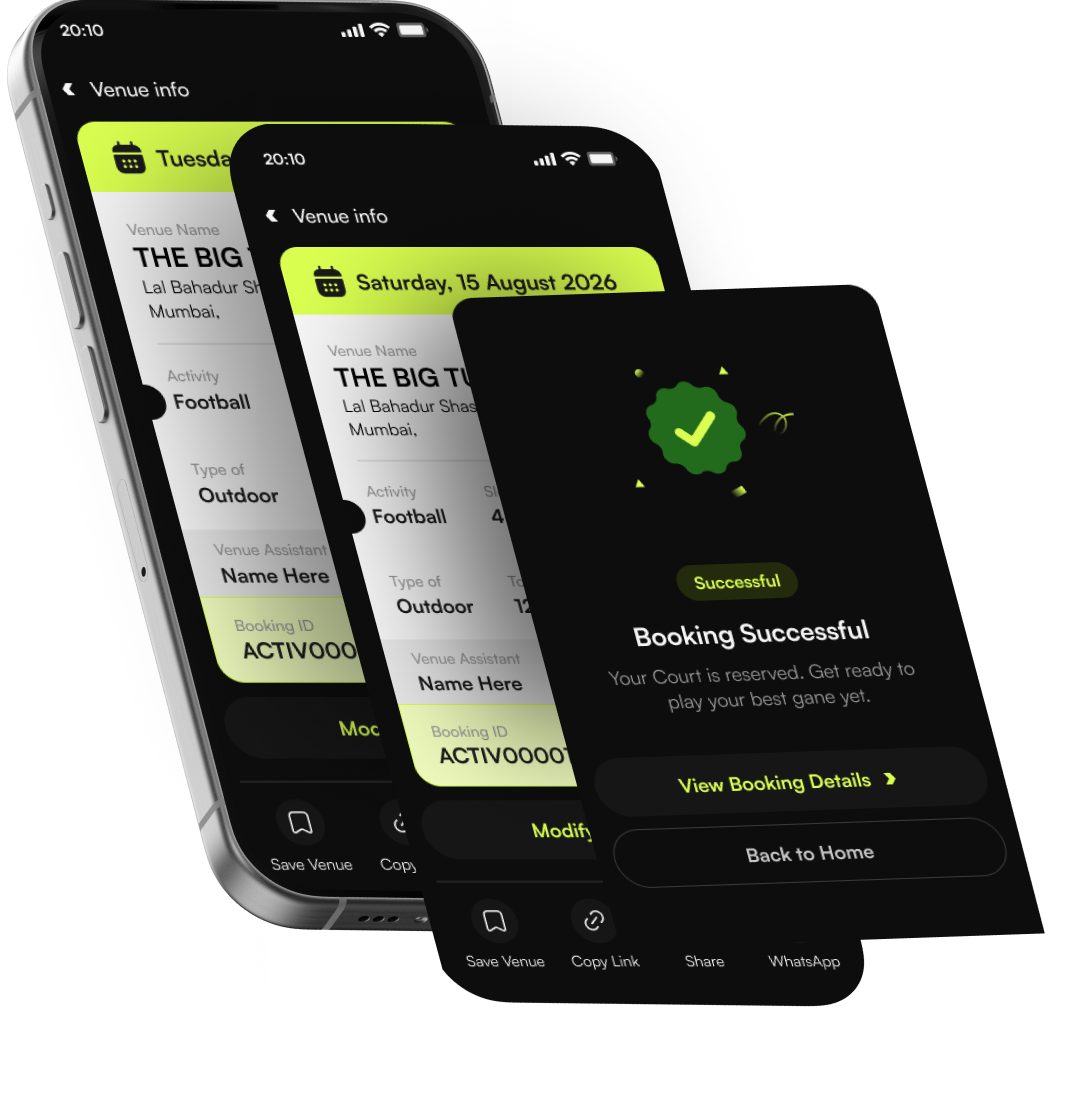
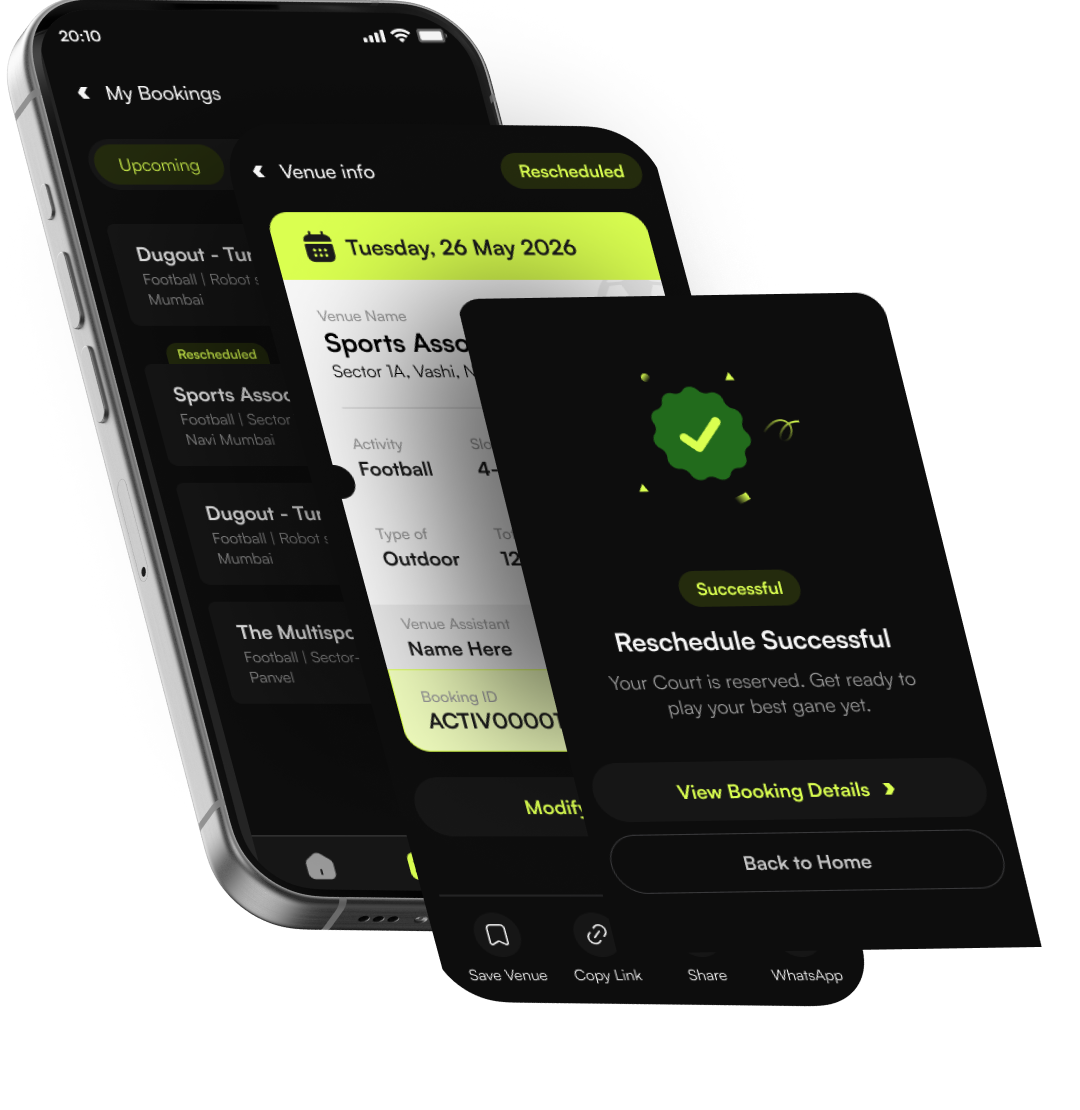
image changes

diff --git a/ActivFrontend/vite.config.ts b/ActivFrontend/vite.config.ts
@@ -1,7 +1,10 @@
-import react from '@vitejs/plugin-react'
 import { defineConfig } from 'vite'
+import react from '@vitejs/plugin-react'
 
-// https://vite.dev/config/
 export default defineConfig({
   plugins: [react()],
+  server: {
+    host: '0.0.0.0',
+    port: 5173,
+  },
 })
